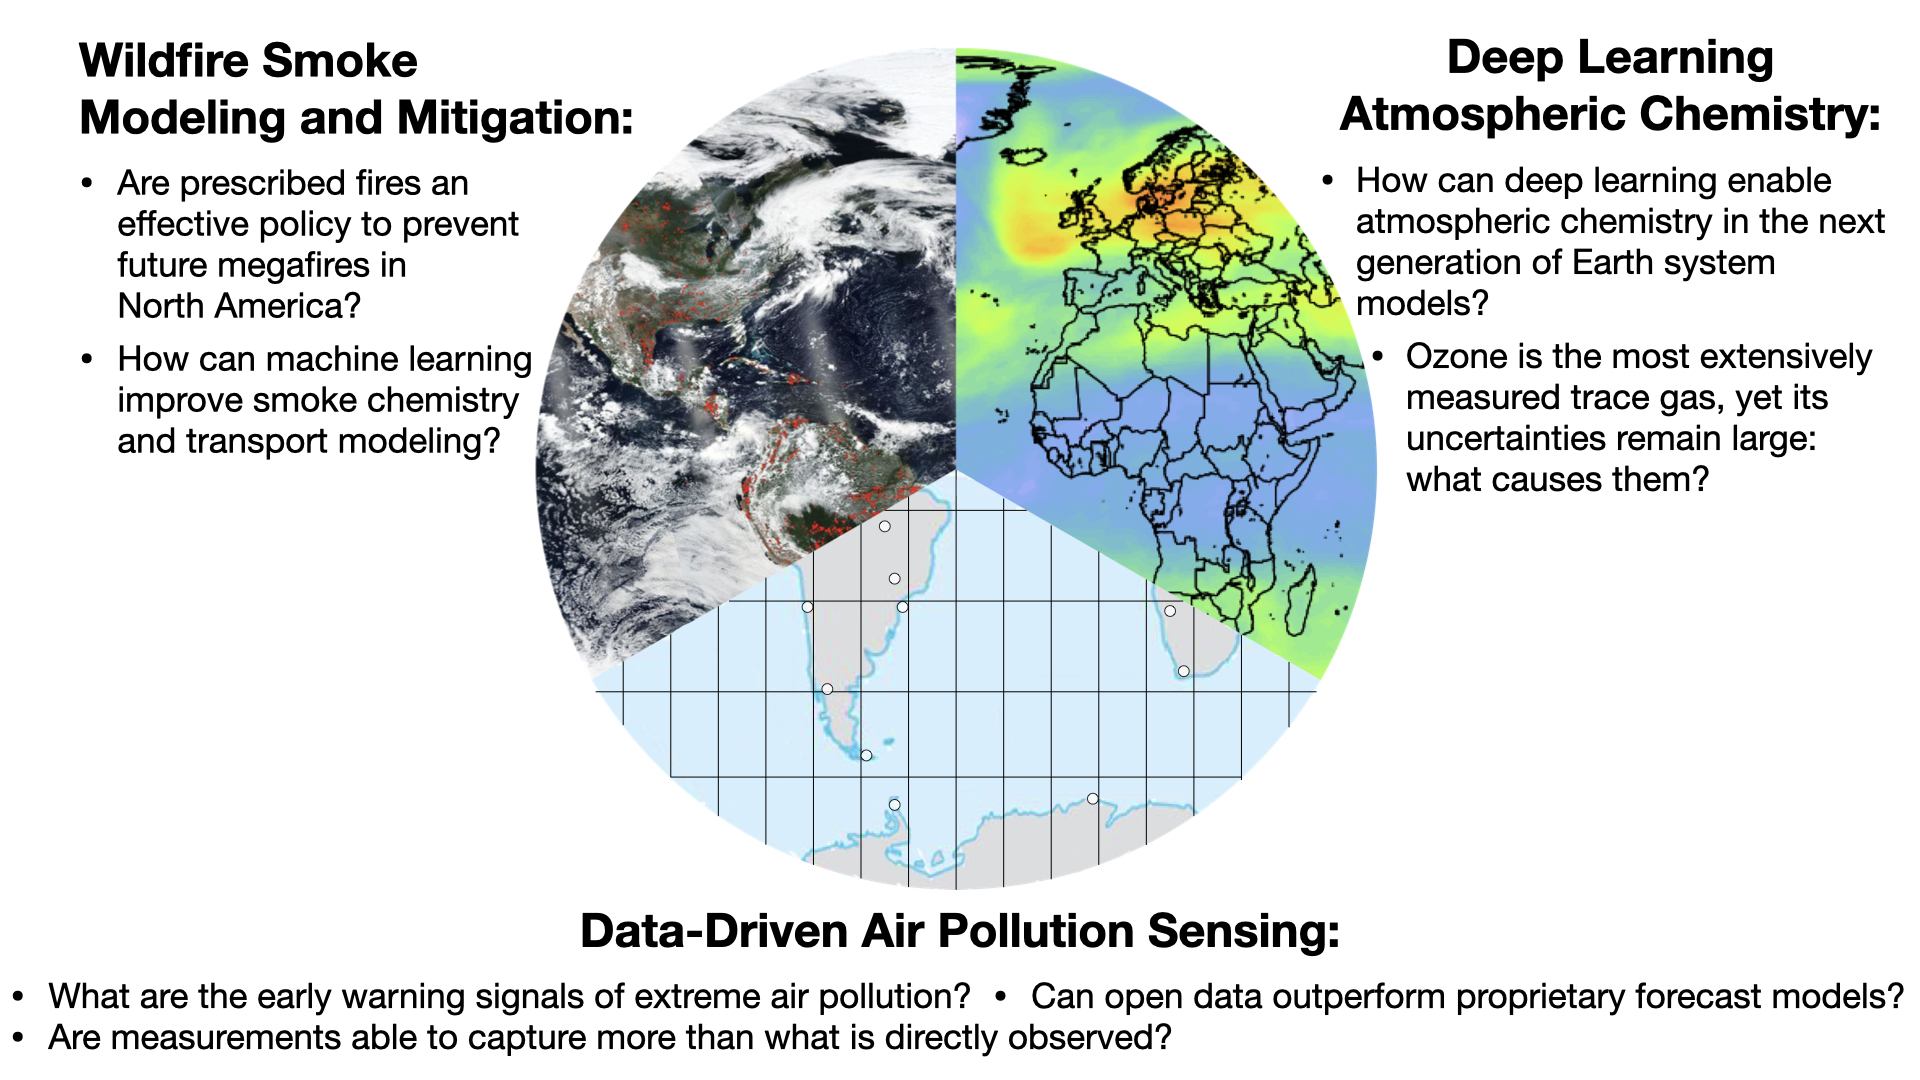
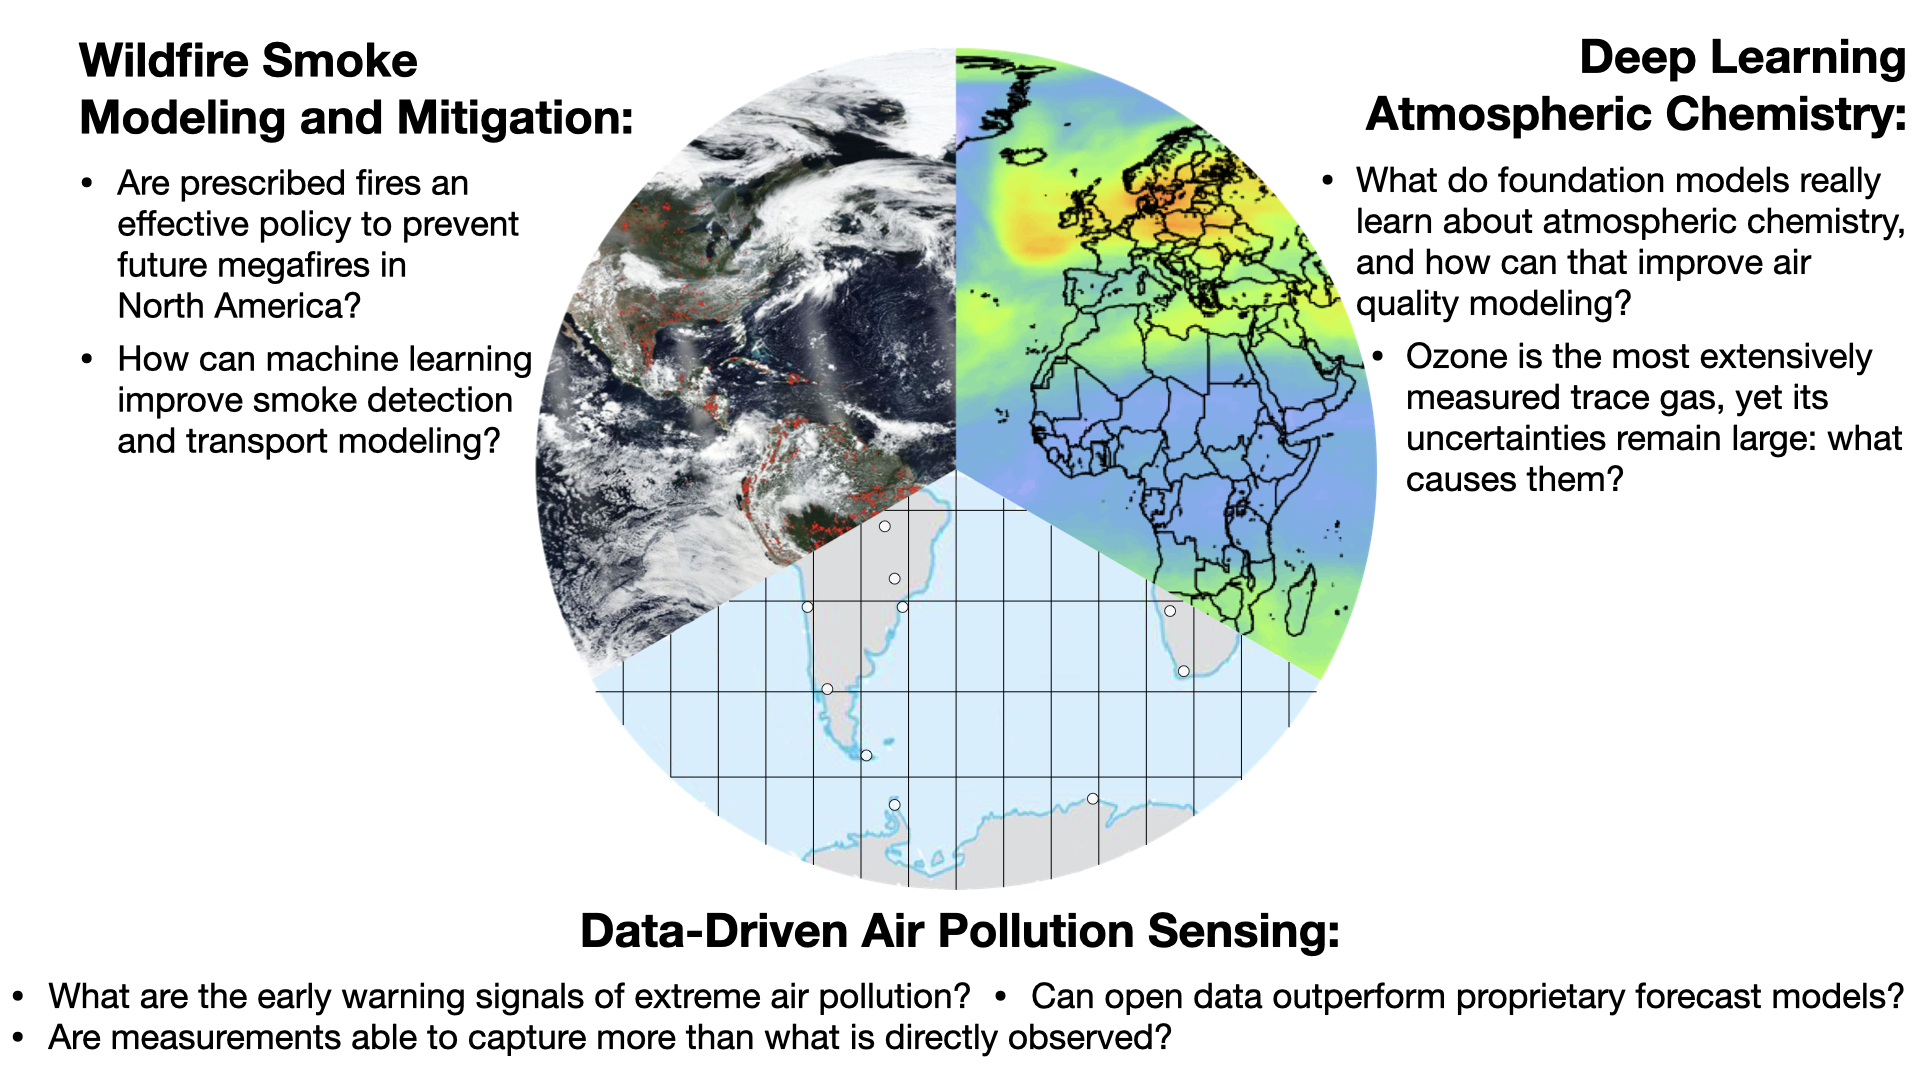
dec28c

diff --git a/research.md b/research.md
@@ -122,7 +122,7 @@ class: research-page
     <div class="research-content">
       <font size="+2"><p><strong>Deep Learning Atmospheric Chemistry</strong></p></font>
       <p>   
-        Ozone is a pollutant that harms human health, damages vegetation, and acts as a short-lived climate forcer in the upper atmosphere. Despite being the most-measured trace gas in our observational record, global atmospheric models show wide disagreement in ozone’s spatial and temporal patterns and trends. The modeling of tropospheric ozone expresses the ultimate skill of a global atmospheric model, as bias can be driven from any physical process: emissions, chemistry, stratosphere-troposphere exchange, or boundary layer mixing. Deep learning seems well-suited for atmospheric chemistry modeling because it can learn complex, non-obvious interactions in air pollution data and accelerate computations of chemical simulations. Our past work explored how deep learning can emulate and replace computationally expensive components of global atmospheric models for fast, stable simulations. Our current research focuses on developing architectures for improved spatial/temporal generalization and applying transfer learning from AI foundation models. We aim to build physically-consistent Large X Models (LxM) that enable the simulation of comprehensive atmospheric chemistry to better understand the drivers of ozone bias.
+        Ozone is a pollutant that harms human health, damages vegetation, and acts as a short-lived climate forcer in the upper atmosphere. Despite being the most-measured trace gas in our observational record, global atmospheric models show wide disagreement in ozone’s spatial and temporal patterns and trends. The modeling of tropospheric ozone expresses the ultimate skill of a global atmospheric model, as bias can be driven from any physical process: emissions, chemistry, stratosphere-troposphere exchange, or boundary layer mixing. Deep learning seems well-suited for atmospheric chemistry modeling because it can learn complex, non-obvious interactions in air pollution data and accelerate computations of chemical simulations. Our past work explored how deep learning can emulate and replace computationally expensive components of global atmospheric models for fast, stable simulations. Our current research probes what foundation models actually learn about atmospheric chemistry and how they can complement process-based models. We develop architectures that improve chemical generalization, use AI to transfer skill from data-rich regions to the rest of the globe, and work toward physically consistent Large-X Models (LxM) that blend data-driven and mechanistic components to better diagnose ozone bias.
 
         <!-- Global models of atmospheric chemistry are computationally expensive. The chemical solver that integrates the large-dimensional coupled systems of kinetic equations describing the chemical mechanism is a bottleneck. Machine learning (ML) could be transformative for reducing the cost of an atmospheric chemistry simulation by replacing the chemical solver with a faster emulator. Our past work found that ML chemical solvers experience rapid error growth and become unstable over time. This challenge was addressed by introducing physical constraints into the ML architecture and training the ML solver online synchronously within the global atmospheric chemistry model. This approach enabled, for the first time, full-year global simulations of air quality using an embedded neural network solver. However, challenges remain in extending ML solvers to more complex chemical mechanisms and in reducing errors associated with long-term chemical aging. Our ongoing research focuses on addressing these limitations by developing transformer-based architectures for improved spatial/temporal generalization, applying transfer learning from atmospheric AI foundation models, and leveraging self-supervised training algorithms specialized for remote sensing data. These efforts ultimately aim to develop accurate, stable, and physically consistent ML models to enable the simulation of comprehensive atmospheric chemistry in climate and Earth System models. -->
 
